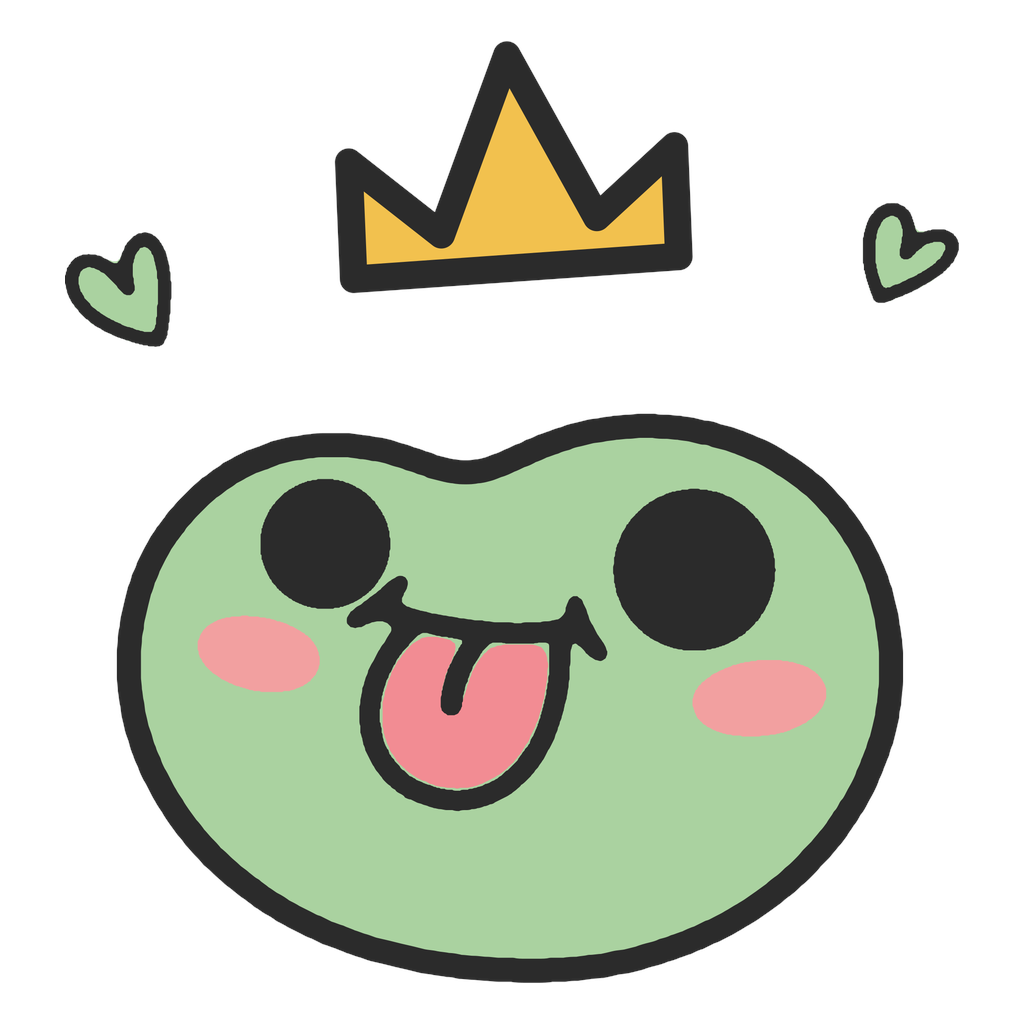
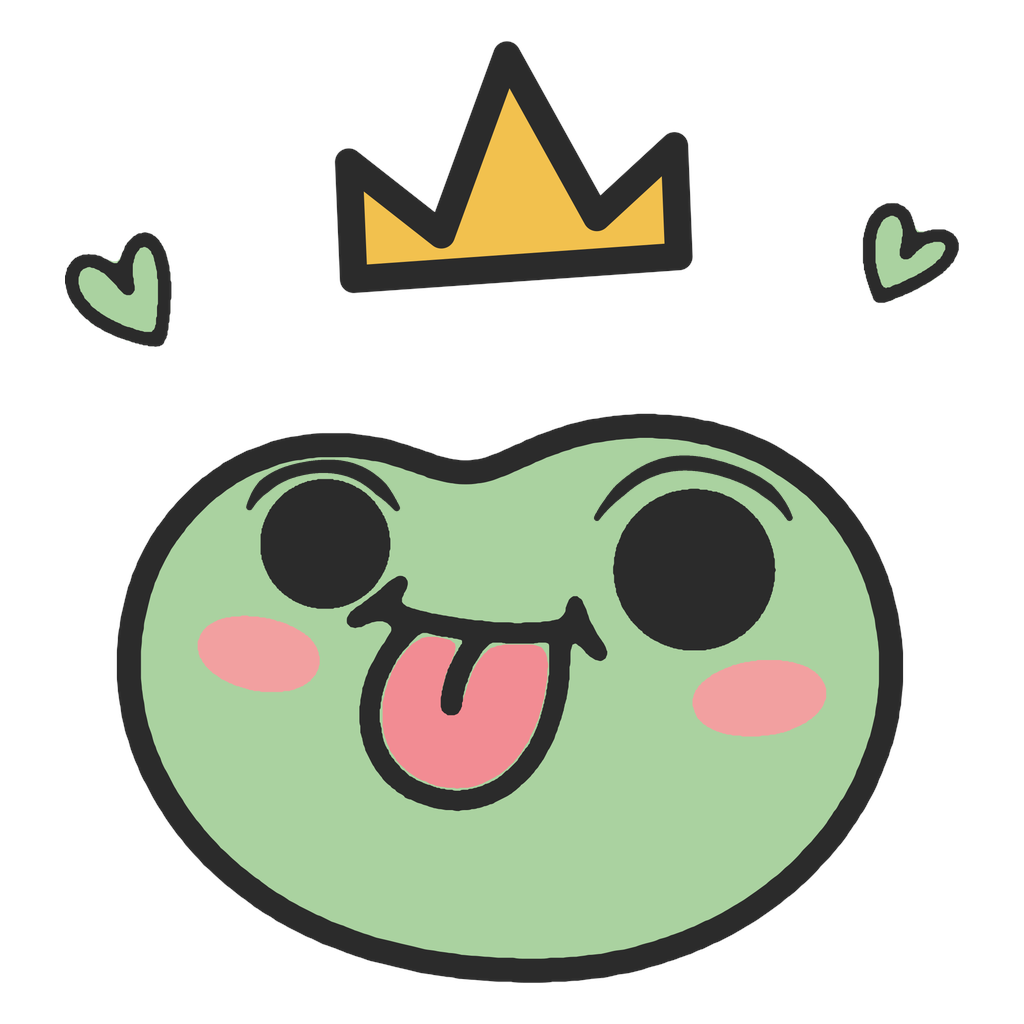
feat(brand): 비개구리 눈에 눈두덩이를 얹는다 — 눈 크기는 건드리지 않는다
눈 위를 지나는 얇은 아치 두 개를 더한다. 눈 반지름의 1.34배 위, 208~332도 구간,
굵기는 몸통 외곽선의 55%.

원본 펜 그림에는 없던 선이다. BigaeMark 의 "눈은 흰자 없는 정원" 주석대로 눈 자체는
꽉 찬 검정으로 두고 눈두덩이만 얹는다 — 스티커 10종의 반짝임·눈두덩이는 이미지 모델이
덧붙인 것이고, 아이콘 쪽이 손그림에 충실한 쪽이었다. 이 변경은 그 충실성을 조금 내주고
입체감을 얻는 거래다.

<b>눈을 깎는 방식은 버렸다.</b> 눈 위를 덮는 언덕(초록 반달 + 외곽선)도 만들어 봤는데
눈두덩이는 더 확실하지만 눈이 작아져 표정이 발랄함에서 졸림으로 바뀌었다. 아치는 눈
크기를 전혀 건드리지 않는다. 머리 윤곽을 눈 위로 솟게 하는 안(실제 개구리에 가장 가깝다)도
시도했지만 뿔처럼 보이고 기존 윤곽선이 비어져 나왔다 — 실루엣은 아이콘의 가장 강한 인식
단서라 덧대는 방식으론 안 된다.

적용 범위와 방법:
- bigae-mark.svg(마스터)·BigaeMark.tsx — 타원 아크 path 2개. 한쪽만 바꾸면 런처 아이콘과
  앱 안 마스코트가 어긋난다.
- icon.png · favicon.png · splash-icon.png · android-icon-foreground.png — SVG 렌더 도구가
  없는 환경이라 PNG 에 직접 그렸다. 파일마다 크기·여백이 달라 눈 좌표를 <b>머리 덩어리 bbox
  기준 비율</b>로 매핑했다(머리는 "가장 큰 초록 연결성분" — 하트도 초록이라 색 bbox 로는
  안 된다). 세 파일의 종횡비가 1.417/1.418/1.414 로 일치해 같은 그림임을 확인했다.
  새로 그리는 선만 4배 레이어에 올려 줄여 합성했다 — 원본 픽셀을 다시 표본화하지 않는다.
- android-icon-monochrome.png 은 <b>제외한다.</b> 머리가 검정이고 눈이 흰 구멍인 반전
  도안이라 아치도 흰 선이 되는데, 실루엣 윗변을 갉아먹어 흠집처럼 보였다. 테마 아이콘은
  단순 실루엣이 목적이라 그대로 둔다.

검증: 48/64/96px 렌더를 확대해 눈으로 확인했다 — 48px 에서도 아치가 살아남는다.
프론트 typecheck 통과, BigaeMark lint 에러 0건, SVG XML 파싱 OK.
⚠ SVG 자체의 렌더는 이 환경에 도구(rsvg·inkscape·cairosvg)가 없어 미검증이다 —
BigaeMark 는 앱 화면에서, 마스터 SVG 는 벡터 편집기에서 한 번 확인해야 한다.
아이콘 교체는 네이티브라 OTA 로 안 나가고 빌드가 필요하다.

Claude-Session: https://claude.ai/code/session_011JDdnZ7qDpT6qnsrqww4en

Changed region(s): [[0.5625, 0.4375, 0.7812, 0.5], [0.2188, 0.4375, 0.4062, 0.5]]

diff --git a/frontend/src/components/BigaeMark.tsx b/frontend/src/components/BigaeMark.tsx
@@ -13,6 +13,10 @@
  * 이미지 모델이 덧붙인 것이다. 다만 잉크 윤곽을 그대로 채우면 원본의 쉼표 모양이 남아
  * 노려보는 인상이 된다 — 모멘트로 정원을 뽑아 면적의 88% 로 그린다.
  *
+ * <p><b>눈두덩이는 원본에 없던 선이다</b>: 눈 위 아치 두 개를 얹어 입체감을 준다
+ * (2026-09-12, 아래 Path 주석). 눈 자체는 위 결정대로 꽉 찬 정원으로 둔다 — 눈을 깎는
+ * 방식은 눈이 작아져 표정이 바뀌었다. 같은 값이 아이콘 PNG 에도 들어가 있다.
+ *
  * <p><b>입만 구멍을 남긴다</b>(혀와 몸통 초록이 비쳐야 한다). 입의 판별은 위치가 아니라
  * "혀 중심을 품는 성분" 으로 한다. 혀 주름은 그 구멍 경계의 얇은 돌기라 180점으로 촘촘히
  * 떠야 살아남는다 — 48점으로 뜨면 주름이 사라져 그 자리에 몸통 초록이 비친다.
@@ -42,6 +46,21 @@ export function BigaeMark({ size = 96, style }: { size?: number; style?: ViewSty
     <Path fill={BLUSH} d="M21.8,61.0C21.9,61.0 22.0,61.0 22.1,61.0C22.2,60.9 22.3,60.9 22.4,60.9C22.5,60.9 22.6,60.9 22.7,60.9C22.8,60.9 22.9,60.9 23.0,61.0C23.1,61.0 23.2,61.0 23.3,61.0C23.4,61.0 23.5,61.0 23.6,61.0C23.7,61.0 23.8,61.0 23.9,61.0C24.0,61.0 24.1,61.1 24.2,61.1C24.3,61.1 24.4,61.1 24.5,61.1C24.6,61.1 24.7,61.1 24.8,61.2C24.9,61.2 25.0,61.2 25.1,61.2C25.2,61.2 25.3,61.3 25.4,61.3C25.5,61.3 25.6,61.3 25.7,61.4C25.8,61.4 25.8,61.4 25.9,61.5C26.0,61.5 26.1,61.5 26.2,61.5C26.3,61.6 26.4,61.6 26.5,61.6C26.6,61.7 26.7,61.7 26.8,61.7C26.9,61.8 27.0,61.8 27.0,61.8C27.1,61.9 27.2,61.9 27.3,62.0C27.4,62.0 27.5,62.0 27.6,62.1C27.7,62.1 27.7,62.2 27.8,62.2C27.9,62.3 28.0,62.3 28.1,62.4C28.2,62.4 28.3,62.5 28.3,62.5C28.4,62.6 28.5,62.6 28.6,62.7C28.7,62.7 28.8,62.8 28.8,62.9C28.9,62.9 29.0,63.0 29.1,63.0C29.1,63.1 29.2,63.2 29.3,63.2C29.4,63.3 29.4,63.4 29.5,63.5C29.5,63.5 29.6,63.6 29.7,63.7C29.7,63.8 29.8,63.9 29.8,63.9C29.9,64.0 29.9,64.1 30.0,64.2C30.0,64.3 30.1,64.4 30.1,64.5C30.1,64.6 30.2,64.7 30.2,64.7C30.2,64.8 30.2,64.9 30.2,65.0C30.3,65.1 30.3,65.2 30.3,65.3C30.3,65.4 30.3,65.5 30.3,65.6C30.3,65.7 30.3,65.8 30.3,65.9C30.3,66.0 30.2,66.1 30.2,66.2C30.2,66.3 30.2,66.4 30.1,66.5C30.1,66.6 30.1,66.6 30.0,66.7C30.0,66.8 29.9,66.9 29.9,67.0C29.8,67.1 29.8,67.1 29.7,67.2C29.6,67.3 29.6,67.4 29.5,67.4C29.4,67.5 29.4,67.6 29.3,67.7C29.2,67.7 29.1,67.8 29.1,67.8C29.0,67.9 28.9,68.0 28.8,68.0C28.7,68.1 28.6,68.1 28.6,68.2C28.5,68.2 28.4,68.2 28.3,68.3C28.2,68.3 28.1,68.4 28.0,68.4C27.9,68.4 27.8,68.5 27.8,68.5C27.7,68.5 27.6,68.6 27.5,68.6C27.4,68.6 27.3,68.6 27.2,68.7C27.1,68.7 27.0,68.7 26.9,68.7C26.8,68.7 26.7,68.7 26.6,68.7C26.5,68.8 26.4,68.8 26.3,68.8C26.2,68.8 26.1,68.8 26.0,68.8C25.9,68.8 25.8,68.8 25.7,68.8C25.6,68.8 25.5,68.8 25.3,68.8C25.2,68.8 25.1,68.8 25.0,68.8C24.9,68.8 24.8,68.8 24.7,68.8C24.6,68.8 24.5,68.8 24.4,68.8C24.3,68.8 24.2,68.8 24.1,68.7C24.0,68.7 23.9,68.7 23.8,68.7C23.7,68.7 23.6,68.7 23.5,68.7C23.4,68.6 23.3,68.6 23.2,68.6C23.1,68.6 23.0,68.6 22.9,68.5C22.8,68.5 22.7,68.5 22.6,68.4C22.6,68.4 22.5,68.4 22.4,68.4C22.3,68.3 22.2,68.3 22.1,68.3C22.0,68.2 21.9,68.2 21.8,68.2C21.7,68.2 21.6,68.1 21.5,68.1C21.4,68.1 21.4,68.0 21.3,68.0C21.2,67.9 21.1,67.9 21.0,67.9C20.9,67.8 20.8,67.8 20.7,67.7C20.6,67.7 20.6,67.7 20.5,67.6C20.4,67.6 20.3,67.5 20.2,67.5C20.1,67.4 20.0,67.4 20.0,67.3C19.9,67.3 19.8,67.2 19.7,67.1C19.6,67.1 19.6,67.0 19.5,67.0C19.4,66.9 19.3,66.9 19.2,66.8C19.2,66.7 19.1,66.7 19.0,66.6C18.9,66.5 18.9,66.5 18.8,66.4C18.7,66.3 18.6,66.2 18.6,66.2C18.5,66.1 18.4,66.0 18.4,65.9C18.3,65.8 18.3,65.8 18.2,65.7C18.2,65.6 18.1,65.5 18.1,65.4C18.0,65.3 18.0,65.3 17.9,65.2C17.9,65.1 17.9,65.0 17.8,64.9C17.8,64.8 17.8,64.7 17.8,64.6C17.7,64.5 17.7,64.4 17.7,64.3C17.7,64.2 17.7,64.1 17.7,64.0C17.7,63.9 17.7,63.8 17.7,63.7C17.7,63.6 17.7,63.5 17.8,63.4C17.8,63.4 17.8,63.3 17.9,63.2C17.9,63.1 17.9,63.0 18.0,62.9C18.0,62.8 18.1,62.7 18.1,62.7C18.2,62.6 18.2,62.5 18.3,62.4C18.4,62.3 18.4,62.3 18.5,62.2C18.6,62.1 18.6,62.1 18.7,62.0C18.8,61.9 18.9,61.9 19.0,61.8C19.0,61.8 19.1,61.7 19.2,61.7C19.3,61.6 19.4,61.6 19.5,61.5C19.6,61.5 19.6,61.5 19.7,61.4C19.8,61.4 19.9,61.3 20.0,61.3C20.1,61.3 20.2,61.2 20.3,61.2C20.4,61.2 20.5,61.2 20.6,61.1C20.7,61.1 20.8,61.1 20.9,61.1C21.0,61.1 21.1,61.1 21.2,61.0C21.3,61.0 21.4,61.0 21.5,61.0C21.6,61.0 21.7,61.0 21.8,61.0Z" />
     <Path fill={INK} fillRule="evenodd" d="M37.6,53.5C37.6,53.6 37.6,53.7 37.6,53.8C37.6,53.9 37.6,53.9 37.6,54.0C37.6,54.1 37.5,54.2 37.5,54.3C37.5,54.4 37.5,54.5 37.5,54.6C37.5,54.6 37.5,54.7 37.5,54.8C37.4,54.9 37.4,55.0 37.4,55.1C37.4,55.2 37.4,55.2 37.3,55.3C37.3,55.4 37.3,55.5 37.3,55.6C37.2,55.7 37.2,55.7 37.2,55.8C37.1,55.9 37.1,56.0 37.1,56.1C37.0,56.2 37.0,56.2 37.0,56.3C36.9,56.4 36.9,56.5 36.8,56.6C36.8,56.6 36.8,56.7 36.7,56.8C36.7,56.9 36.6,56.9 36.6,57.0C36.5,57.1 36.5,57.2 36.4,57.2C36.4,57.3 36.3,57.4 36.3,57.5C36.2,57.5 36.2,57.6 36.1,57.7C36.1,57.7 36.0,57.8 36.0,57.9C35.9,57.9 35.9,58.0 35.8,58.1C35.7,58.1 35.7,58.2 35.6,58.3C35.6,58.3 35.5,58.4 35.4,58.4C35.4,58.5 35.3,58.6 35.2,58.6C35.2,58.7 35.1,58.7 35.0,58.8C35.0,58.8 34.9,58.9 34.8,58.9C34.7,59.0 34.7,59.0 34.6,59.1C34.5,59.1 34.5,59.2 34.4,59.2C34.3,59.3 34.2,59.3 34.1,59.4C34.1,59.4 34.0,59.4 33.9,59.5C33.8,59.5 33.8,59.6 33.7,59.6C33.6,59.6 33.5,59.7 33.4,59.7C33.4,59.7 33.3,59.8 33.2,59.8C33.1,59.8 33.0,59.9 32.9,59.9C32.9,59.9 32.8,59.9 32.7,60.0C32.6,60.0 32.5,60.0 32.4,60.0C32.4,60.1 32.3,60.1 32.2,60.1C32.1,60.1 32.0,60.1 31.9,60.1C31.8,60.1 31.7,60.2 31.7,60.2C31.6,60.2 31.5,60.2 31.4,60.2C31.3,60.2 31.2,60.2 31.1,60.2C31.0,60.2 31.0,60.2 30.9,60.2C30.8,60.2 30.7,60.2 30.6,60.2C30.5,60.2 30.4,60.2 30.3,60.2C30.3,60.2 30.2,60.2 30.1,60.2C30.0,60.2 29.9,60.1 29.8,60.1C29.7,60.1 29.6,60.1 29.6,60.1C29.5,60.1 29.4,60.1 29.3,60.0C29.2,60.0 29.1,60.0 29.0,60.0C29.0,59.9 28.9,59.9 28.8,59.9C28.7,59.9 28.6,59.8 28.5,59.8C28.5,59.8 28.4,59.7 28.3,59.7C28.2,59.7 28.1,59.6 28.1,59.6C28.0,59.6 27.9,59.5 27.8,59.5C27.7,59.4 27.7,59.4 27.6,59.4C27.5,59.3 27.4,59.3 27.4,59.2C27.3,59.2 27.2,59.1 27.1,59.1C27.1,59.0 27.0,59.0 26.9,58.9C26.9,58.9 26.8,58.8 26.7,58.8C26.6,58.7 26.6,58.7 26.5,58.6C26.4,58.6 26.4,58.5 26.3,58.4C26.3,58.4 26.2,58.3 26.1,58.3C26.1,58.2 26.0,58.1 25.9,58.1C25.9,58.0 25.8,57.9 25.8,57.9C25.7,57.8 25.7,57.7 25.6,57.7C25.5,57.6 25.5,57.5 25.4,57.5C25.4,57.4 25.3,57.3 25.3,57.2C25.2,57.2 25.2,57.1 25.1,57.0C25.1,56.9 25.1,56.9 25.0,56.8C25.0,56.7 24.9,56.6 24.9,56.6C24.9,56.5 24.8,56.4 24.8,56.3C24.7,56.2 24.7,56.2 24.7,56.1C24.6,56.0 24.6,55.9 24.6,55.8C24.5,55.7 24.5,55.7 24.5,55.6C24.5,55.5 24.4,55.4 24.4,55.3C24.4,55.2 24.4,55.2 24.3,55.1C24.3,55.0 24.3,54.9 24.3,54.8C24.3,54.7 24.3,54.6 24.2,54.6C24.2,54.5 24.2,54.4 24.2,54.3C24.2,54.2 24.2,54.1 24.2,54.0C24.2,53.9 24.2,53.9 24.2,53.8C24.2,53.7 24.2,53.6 24.2,53.5C24.2,53.4 24.2,53.3 24.2,53.2C24.2,53.2 24.2,53.1 24.2,53.0C24.2,52.9 24.2,52.8 24.2,52.7C24.2,52.6 24.2,52.5 24.2,52.5C24.3,52.4 24.3,52.3 24.3,52.2C24.3,52.1 24.3,52.0 24.3,51.9C24.4,51.9 24.4,51.8 24.4,51.7C24.4,51.6 24.5,51.5 24.5,51.4C24.5,51.3 24.5,51.3 24.6,51.2C24.6,51.1 24.6,51.0 24.7,50.9C24.7,50.9 24.7,50.8 24.8,50.7C24.8,50.6 24.9,50.5 24.9,50.5C24.9,50.4 25.0,50.3 25.0,50.2C25.1,50.2 25.1,50.1 25.1,50.0C25.2,49.9 25.2,49.9 25.3,49.8C25.3,49.7 25.4,49.6 25.4,49.6C25.5,49.5 25.5,49.4 25.6,49.4C25.7,49.3 25.7,49.2 25.8,49.1C25.8,49.1 25.9,49.0 25.9,49.0C26.0,48.9 26.1,48.8 26.1,48.8C26.2,48.7 26.3,48.6 26.3,48.6C26.4,48.5 26.4,48.5 26.5,48.4C26.6,48.3 26.6,48.3 26.7,48.2C26.8,48.2 26.9,48.1 26.9,48.1C27.0,48.0 27.1,48.0 27.1,47.9C27.2,47.9 27.3,47.8 27.4,47.8C27.4,47.7 27.5,47.7 27.6,47.7C27.7,47.6 27.7,47.6 27.8,47.5C27.9,47.5 28.0,47.5 28.1,47.4C28.1,47.4 28.2,47.3 28.3,47.3C28.4,47.3 28.5,47.2 28.5,47.2C28.6,47.2 28.7,47.2 28.8,47.1C28.9,47.1 29.0,47.1 29.0,47.0C29.1,47.0 29.2,47.0 29.3,47.0C29.4,47.0 29.5,46.9 29.6,46.9C29.6,46.9 29.7,46.9 29.8,46.9C29.9,46.9 30.0,46.9 30.1,46.8C30.2,46.8 30.3,46.8 30.3,46.8C30.4,46.8 30.5,46.8 30.6,46.8C30.7,46.8 30.8,46.8 30.9,46.8C31.0,46.8 31.0,46.8 31.1,46.8C31.2,46.8 31.3,46.8 31.4,46.8C31.5,46.8 31.6,46.8 31.7,46.8C31.7,46.9 31.8,46.9 31.9,46.9C32.0,46.9 32.1,46.9 32.2,46.9C32.3,46.9 32.4,47.0 32.4,47.0C32.5,47.0 32.6,47.0 32.7,47.0C32.8,47.1 32.9,47.1 32.9,47.1C33.0,47.2 33.1,47.2 33.2,47.2C33.3,47.2 33.4,47.3 33.4,47.3C33.5,47.3 33.6,47.4 33.7,47.4C33.8,47.5 33.8,47.5 33.9,47.5C34.0,47.6 34.1,47.6 34.1,47.7C34.2,47.7 34.3,47.7 34.4,47.8C34.5,47.8 34.5,47.9 34.6,47.9C34.7,48.0 34.7,48.0 34.8,48.1C34.9,48.1 35.0,48.2 35.0,48.2C35.1,48.3 35.2,48.3 35.2,48.4C35.3,48.5 35.4,48.5 35.4,48.6C35.5,48.6 35.6,48.7 35.6,48.8C35.7,48.8 35.7,48.9 35.8,49.0C35.9,49.0 35.9,49.1 36.0,49.1C36.0,49.2 36.1,49.3 36.1,49.4C36.2,49.4 36.2,49.5 36.3,49.6C36.3,49.6 36.4,49.7 36.4,49.8C36.5,49.9 36.5,49.9 36.6,50.0C36.6,50.1 36.7,50.2 36.7,50.2C36.8,50.3 36.8,50.4 36.8,50.5C36.9,50.5 36.9,50.6 37.0,50.7C37.0,50.8 37.0,50.9 37.1,50.9C37.1,51.0 37.1,51.1 37.2,51.2C37.2,51.3 37.2,51.3 37.3,51.4C37.3,51.5 37.3,51.6 37.3,51.7C37.4,51.8 37.4,51.9 37.4,51.9C37.4,52.0 37.4,52.1 37.5,52.2C37.5,52.3 37.5,52.4 37.5,52.5C37.5,52.5 37.5,52.6 37.5,52.7C37.5,52.8 37.6,52.9 37.6,53.0C37.6,53.1 37.6,53.2 37.6,53.2C37.6,53.3 37.6,53.4 37.6,53.5Z" />
     <Path fill={INK} fillRule="evenodd" d="M77.4,56.2C77.4,56.3 77.3,56.4 77.3,56.5C77.3,56.6 77.3,56.7 77.3,56.8C77.3,57.0 77.3,57.1 77.3,57.2C77.3,57.3 77.3,57.4 77.2,57.5C77.2,57.6 77.2,57.7 77.2,57.8C77.2,57.9 77.1,58.0 77.1,58.1C77.1,58.2 77.1,58.4 77.0,58.5C77.0,58.6 77.0,58.7 76.9,58.8C76.9,58.9 76.9,59.0 76.8,59.1C76.8,59.2 76.8,59.3 76.7,59.4C76.7,59.5 76.6,59.6 76.6,59.7C76.5,59.8 76.5,59.9 76.4,60.0C76.4,60.1 76.3,60.2 76.3,60.3C76.2,60.4 76.2,60.5 76.1,60.6C76.1,60.7 76.0,60.7 75.9,60.8C75.9,60.9 75.8,61.0 75.8,61.1C75.7,61.2 75.6,61.3 75.6,61.4C75.5,61.5 75.4,61.5 75.3,61.6C75.3,61.7 75.2,61.8 75.1,61.9C75.1,61.9 75.0,62.0 74.9,62.1C74.8,62.2 74.7,62.3 74.7,62.3C74.6,62.4 74.5,62.5 74.4,62.5C74.3,62.6 74.3,62.7 74.2,62.8C74.1,62.8 74.0,62.9 73.9,63.0C73.8,63.0 73.7,63.1 73.6,63.1C73.5,63.2 73.5,63.3 73.4,63.3C73.3,63.4 73.2,63.4 73.1,63.5C73.0,63.5 72.9,63.6 72.8,63.6C72.7,63.7 72.6,63.7 72.5,63.8C72.4,63.8 72.3,63.9 72.2,63.9C72.1,64.0 72.0,64.0 71.9,64.0C71.8,64.1 71.7,64.1 71.6,64.1C71.5,64.2 71.4,64.2 71.3,64.2C71.2,64.3 71.0,64.3 70.9,64.3C70.8,64.3 70.7,64.4 70.6,64.4C70.5,64.4 70.4,64.4 70.3,64.4C70.2,64.5 70.1,64.5 70.0,64.5C69.9,64.5 69.8,64.5 69.6,64.5C69.5,64.5 69.4,64.5 69.3,64.5C69.2,64.5 69.1,64.5 69.0,64.5C68.9,64.5 68.8,64.5 68.7,64.5C68.6,64.5 68.4,64.5 68.3,64.5C68.2,64.5 68.1,64.5 68.0,64.5C67.9,64.5 67.8,64.5 67.7,64.4C67.6,64.4 67.5,64.4 67.4,64.4C67.3,64.4 67.1,64.3 67.0,64.3C66.9,64.3 66.8,64.3 66.7,64.2C66.6,64.2 66.5,64.2 66.4,64.1C66.3,64.1 66.2,64.1 66.1,64.0C66.0,64.0 65.9,64.0 65.8,63.9C65.7,63.9 65.6,63.8 65.5,63.8C65.4,63.7 65.3,63.7 65.2,63.6C65.1,63.6 65.0,63.5 64.9,63.5C64.8,63.4 64.7,63.4 64.6,63.3C64.5,63.3 64.4,63.2 64.3,63.1C64.3,63.1 64.2,63.0 64.1,63.0C64.0,62.9 63.9,62.8 63.8,62.8C63.7,62.7 63.6,62.6 63.6,62.5C63.5,62.5 63.4,62.4 63.3,62.3C63.2,62.3 63.2,62.2 63.1,62.1C63.0,62.0 62.9,61.9 62.9,61.9C62.8,61.8 62.7,61.7 62.6,61.6C62.6,61.5 62.5,61.5 62.4,61.4C62.4,61.3 62.3,61.2 62.2,61.1C62.2,61.0 62.1,60.9 62.0,60.8C62.0,60.7 61.9,60.7 61.9,60.6C61.8,60.5 61.8,60.4 61.7,60.3C61.6,60.2 61.6,60.1 61.5,60.0C61.5,59.9 61.4,59.8 61.4,59.7C61.4,59.6 61.3,59.5 61.3,59.4C61.2,59.3 61.2,59.2 61.2,59.1C61.1,59.0 61.1,58.9 61.0,58.8C61.0,58.7 61.0,58.6 60.9,58.5C60.9,58.4 60.9,58.2 60.9,58.1C60.8,58.0 60.8,57.9 60.8,57.8C60.8,57.7 60.8,57.6 60.7,57.5C60.7,57.4 60.7,57.3 60.7,57.2C60.7,57.1 60.7,57.0 60.7,56.8C60.7,56.7 60.6,56.6 60.6,56.5C60.6,56.4 60.6,56.3 60.6,56.2C60.6,56.1 60.6,56.0 60.6,55.9C60.6,55.8 60.7,55.6 60.7,55.5C60.7,55.4 60.7,55.3 60.7,55.2C60.7,55.1 60.7,55.0 60.7,54.9C60.8,54.8 60.8,54.7 60.8,54.6C60.8,54.5 60.8,54.3 60.9,54.2C60.9,54.1 60.9,54.0 60.9,53.9C61.0,53.8 61.0,53.7 61.0,53.6C61.1,53.5 61.1,53.4 61.2,53.3C61.2,53.2 61.2,53.1 61.3,53.0C61.3,52.9 61.4,52.8 61.4,52.7C61.4,52.6 61.5,52.5 61.5,52.4C61.6,52.3 61.6,52.2 61.7,52.1C61.8,52.0 61.8,51.9 61.9,51.8C61.9,51.7 62.0,51.6 62.0,51.5C62.1,51.5 62.2,51.4 62.2,51.3C62.3,51.2 62.4,51.1 62.4,51.0C62.5,50.9 62.6,50.8 62.6,50.8C62.7,50.7 62.8,50.6 62.9,50.5C62.9,50.4 63.0,50.4 63.1,50.3C63.2,50.2 63.2,50.1 63.3,50.1C63.4,50.0 63.5,49.9 63.6,49.8C63.6,49.8 63.7,49.7 63.8,49.6C63.9,49.6 64.0,49.5 64.1,49.4C64.2,49.4 64.3,49.3 64.3,49.2C64.4,49.2 64.5,49.1 64.6,49.1C64.7,49.0 64.8,49.0 64.9,48.9C65.0,48.8 65.1,48.8 65.2,48.7C65.3,48.7 65.4,48.6 65.5,48.6C65.6,48.6 65.7,48.5 65.8,48.5C65.9,48.4 66.0,48.4 66.1,48.3C66.2,48.3 66.3,48.3 66.4,48.2C66.5,48.2 66.6,48.2 66.7,48.1C66.8,48.1 66.9,48.1 67.0,48.1C67.1,48.0 67.3,48.0 67.4,48.0C67.5,48.0 67.6,48.0 67.7,47.9C67.8,47.9 67.9,47.9 68.0,47.9C68.1,47.9 68.2,47.9 68.3,47.9C68.4,47.8 68.6,47.8 68.7,47.8C68.8,47.8 68.9,47.8 69.0,47.8C69.1,47.8 69.2,47.8 69.3,47.8C69.4,47.8 69.5,47.8 69.6,47.9C69.8,47.9 69.9,47.9 70.0,47.9C70.1,47.9 70.2,47.9 70.3,47.9C70.4,48.0 70.5,48.0 70.6,48.0C70.7,48.0 70.8,48.0 70.9,48.1C71.0,48.1 71.2,48.1 71.3,48.1C71.4,48.2 71.5,48.2 71.6,48.2C71.7,48.3 71.8,48.3 71.9,48.3C72.0,48.4 72.1,48.4 72.2,48.5C72.3,48.5 72.4,48.6 72.5,48.6C72.6,48.6 72.7,48.7 72.8,48.7C72.9,48.8 73.0,48.8 73.1,48.9C73.2,49.0 73.3,49.0 73.4,49.1C73.5,49.1 73.5,49.2 73.6,49.2C73.7,49.3 73.8,49.4 73.9,49.4C74.0,49.5 74.1,49.6 74.2,49.6C74.3,49.7 74.3,49.8 74.4,49.8C74.5,49.9 74.6,50.0 74.7,50.1C74.7,50.1 74.8,50.2 74.9,50.3C75.0,50.4 75.1,50.4 75.1,50.5C75.2,50.6 75.3,50.7 75.3,50.8C75.4,50.8 75.5,50.9 75.6,51.0C75.6,51.1 75.7,51.2 75.8,51.3C75.8,51.4 75.9,51.5 75.9,51.5C76.0,51.6 76.1,51.7 76.1,51.8C76.2,51.9 76.2,52.0 76.3,52.1C76.3,52.2 76.4,52.3 76.4,52.4C76.5,52.5 76.5,52.6 76.6,52.7C76.6,52.8 76.7,52.9 76.7,53.0C76.8,53.1 76.8,53.2 76.8,53.3C76.9,53.4 76.9,53.5 76.9,53.6C77.0,53.7 77.0,53.8 77.0,53.9C77.1,54.0 77.1,54.1 77.1,54.2C77.1,54.3 77.2,54.5 77.2,54.6C77.2,54.7 77.2,54.8 77.2,54.9C77.3,55.0 77.3,55.1 77.3,55.2C77.3,55.3 77.3,55.4 77.3,55.5C77.3,55.6 77.3,55.8 77.3,55.9C77.3,56.0 77.4,56.1 77.4,56.2Z" />
+      {/*
+        눈두덩이 — 눈 위를 지나는 얇은 아치 두 개(2026-09-12).
+
+        <p>원본 펜 그림에는 없던 선이다. 위 "눈은 흰자 없는 정원" 주석대로 눈 자체는 꽉 찬
+        검정으로 두고, 눈두덩이만 얹어 입체감을 준다. 눈을 깎는 방식(눈 위를 덮는 언덕)도
+        시도했지만 눈이 작아져 표정이 바뀌었다 — 이 아치는 눈 크기를 건드리지 않는다.
+
+        <p>기하: 눈 반지름의 1.34배 위, 208°~332° 구간. 굵기는 몸통 외곽선(2.49)의 55%.
+        아이콘 PNG(assets/icon.png 등)도 같은 값으로 그렸다 — 한쪽만 바꾸면 런처 아이콘과
+        앱 안 마스코트가 어긋난다.
+      */}
+      <Path fill="none" stroke={INK} strokeWidth={1.37} strokeLinecap="round"
+        d="M22.97,49.29 A8.98,8.98 0 0 1 38.83,49.29" />
+      <Path fill="none" stroke={INK} strokeWidth={1.37} strokeLinecap="round"
+        d="M59.09,50.88 A11.22,11.22 0 0 1 78.91,50.88" />
     <Path fill={INK} fillRule="evenodd" d="M38.6,56.8C38.7,56.8 38.9,56.8 39.0,56.9C39.1,56.9 39.2,57.0 39.3,57.2C39.4,57.3 39.4,57.5 39.4,57.6C39.4,57.8 39.3,58.0 39.3,58.1C39.2,58.3 39.1,58.5 39.0,58.6C39.0,58.8 38.9,58.9 38.8,59.1C38.8,59.2 38.8,59.4 38.8,59.5C38.9,59.6 38.9,59.7 39.1,59.8C39.2,59.9 39.3,60.0 39.5,60.0C39.7,60.1 39.9,60.2 40.1,60.2C40.3,60.3 40.5,60.3 40.7,60.4C40.9,60.4 41.1,60.5 41.3,60.5C41.5,60.6 41.7,60.6 41.9,60.7C42.1,60.7 42.3,60.7 42.6,60.8C42.8,60.8 43.0,60.9 43.2,60.9C43.4,60.9 43.6,61.0 43.8,61.0C44.0,61.0 44.3,61.1 44.5,61.1C44.7,61.2 44.9,61.2 45.1,61.2C45.3,61.2 45.5,61.3 45.8,61.3C46.0,61.3 46.2,61.4 46.4,61.4C46.6,61.4 46.9,61.4 47.1,61.4C47.3,61.5 47.5,61.5 47.7,61.5C47.9,61.5 48.2,61.6 48.4,61.6C48.6,61.6 48.8,61.6 49.1,61.6C49.3,61.6 49.5,61.6 49.7,61.6C49.9,61.6 50.2,61.6 50.4,61.7C50.6,61.7 50.8,61.7 51.1,61.7C51.3,61.6 51.5,61.6 51.7,61.6C52.0,61.6 52.2,61.6 52.4,61.6C52.6,61.6 52.8,61.6 53.1,61.6C53.3,61.5 53.5,61.5 53.7,61.5C53.9,61.5 54.1,61.5 54.3,61.4C54.5,61.4 54.7,61.3 54.9,61.3C55.1,61.2 55.2,61.1 55.3,61.0C55.4,60.9 55.5,60.8 55.6,60.6C55.7,60.5 55.7,60.3 55.7,60.1C55.8,59.9 55.8,59.8 55.9,59.6C56.0,59.4 56.0,59.3 56.1,59.2C56.2,59.1 56.3,59.0 56.5,58.9C56.6,58.9 56.7,58.9 56.9,58.9C57.0,59.0 57.1,59.1 57.3,59.2C57.4,59.3 57.5,59.5 57.5,59.6C57.6,59.8 57.7,60.0 57.8,60.2C57.9,60.4 57.9,60.6 58.0,60.8C58.1,61.0 58.1,61.2 58.2,61.4C58.3,61.6 58.4,61.8 58.5,61.9C58.6,62.1 58.7,62.3 58.8,62.5C58.9,62.7 59.0,62.9 59.1,63.0C59.2,63.2 59.4,63.4 59.5,63.6C59.6,63.7 59.7,63.9 59.8,64.1C59.9,64.3 59.9,64.5 60.0,64.6C60.0,64.8 60.0,65.0 59.9,65.1C59.9,65.2 59.8,65.4 59.7,65.4C59.6,65.5 59.4,65.6 59.3,65.6C59.1,65.6 59.0,65.5 58.8,65.5C58.6,65.4 58.5,65.3 58.3,65.2C58.1,65.1 58.0,64.9 57.8,64.8C57.7,64.6 57.6,64.5 57.4,64.3C57.3,64.2 57.2,64.1 57.0,64.0C56.9,63.9 56.8,63.8 56.7,63.8C56.6,63.8 56.5,63.9 56.4,63.9C56.4,64.0 56.3,64.2 56.3,64.3C56.2,64.5 56.2,64.7 56.2,64.9C56.2,65.1 56.2,65.3 56.2,65.5C56.2,65.7 56.2,66.0 56.1,66.2C56.1,66.4 56.1,66.6 56.1,66.9C56.1,67.1 56.1,67.3 56.1,67.5C56.0,67.7 56.0,68.0 56.0,68.2C56.0,68.4 55.9,68.6 55.9,68.8C55.9,69.0 55.8,69.2 55.8,69.5C55.7,69.7 55.7,69.9 55.6,70.1C55.6,70.3 55.5,70.5 55.5,70.7C55.4,70.9 55.4,71.1 55.3,71.3C55.3,71.5 55.2,71.7 55.1,71.9C55.1,72.1 55.0,72.3 54.9,72.5C54.9,72.7 54.8,72.9 54.7,73.1C54.6,73.3 54.6,73.5 54.5,73.7C54.4,73.9 54.3,74.1 54.2,74.3C54.1,74.5 54.0,74.7 53.9,74.8C53.8,75.0 53.7,75.2 53.6,75.4C53.5,75.6 53.4,75.8 53.3,75.9C53.2,76.1 53.0,76.3 52.9,76.5C52.8,76.7 52.6,76.8 52.5,77.0C52.4,77.2 52.2,77.3 52.1,77.5C51.9,77.7 51.8,77.8 51.6,78.0C51.5,78.1 51.3,78.3 51.1,78.4C51.0,78.6 50.8,78.7 50.6,78.9C50.5,79.0 50.3,79.1 50.1,79.3C49.9,79.4 49.8,79.5 49.6,79.6C49.4,79.7 49.2,79.8 49.0,79.9C48.8,80.0 48.6,80.1 48.4,80.2C48.3,80.3 48.1,80.4 47.9,80.4C47.7,80.5 47.5,80.6 47.3,80.6C47.1,80.7 46.8,80.8 46.6,80.8C46.4,80.9 46.2,80.9 46.0,80.9C45.8,81.0 45.6,81.0 45.4,81.0C45.1,81.0 44.9,81.0 44.7,81.1C44.5,81.1 44.3,81.1 44.0,81.0C43.8,81.0 43.6,81.0 43.4,81.0C43.2,81.0 42.9,80.9 42.7,80.9C42.5,80.9 42.3,80.8 42.1,80.8C41.9,80.7 41.7,80.7 41.5,80.6C41.3,80.5 41.1,80.5 40.9,80.4C40.7,80.3 40.5,80.3 40.3,80.2C40.1,80.1 39.9,80.0 39.7,79.9C39.5,79.9 39.3,79.8 39.1,79.7C39.0,79.5 38.8,79.4 38.6,79.3C38.4,79.2 38.2,79.1 38.1,78.9C37.9,78.8 37.7,78.7 37.6,78.5C37.4,78.4 37.2,78.2 37.1,78.1C36.9,77.9 36.8,77.8 36.7,77.6C36.5,77.4 36.4,77.2 36.3,77.1C36.1,76.9 36.0,76.7 35.9,76.5C35.8,76.4 35.7,76.2 35.6,76.0C35.5,75.8 35.4,75.6 35.3,75.4C35.2,75.2 35.1,75.0 35.0,74.8C35.0,74.6 34.9,74.4 34.8,74.2C34.8,74.0 34.7,73.8 34.7,73.6C34.6,73.4 34.6,73.2 34.5,73.0C34.5,72.8 34.5,72.6 34.5,72.3C34.4,72.1 34.4,71.9 34.4,71.7C34.4,71.5 34.4,71.2 34.4,71.0C34.4,70.8 34.4,70.6 34.4,70.3C34.5,70.1 34.5,69.9 34.5,69.7C34.5,69.5 34.6,69.3 34.6,69.1C34.7,68.8 34.7,68.6 34.7,68.4C34.8,68.2 34.9,68.0 34.9,67.8C35.0,67.6 35.0,67.4 35.1,67.2C35.2,67.0 35.3,66.8 35.3,66.6C35.4,66.4 35.5,66.2 35.6,66.0C35.7,65.8 35.8,65.7 35.9,65.5C36.0,65.3 36.1,65.1 36.2,64.9C36.3,64.7 36.4,64.5 36.5,64.4C36.6,64.2 36.7,64.0 36.9,63.8C37.0,63.7 37.1,63.5 37.2,63.3C37.3,63.1 37.4,63.0 37.5,62.8C37.6,62.7 37.7,62.5 37.7,62.4C37.7,62.2 37.7,62.1 37.6,62.0C37.5,61.9 37.4,61.8 37.3,61.7C37.1,61.6 37.0,61.6 36.8,61.5C36.6,61.5 36.4,61.5 36.3,61.5C36.1,61.5 35.9,61.6 35.7,61.6C35.5,61.7 35.3,61.8 35.1,61.8C35.0,61.9 34.8,62.0 34.6,62.1C34.4,62.1 34.2,62.1 34.0,62.2C33.9,62.2 33.7,62.1 33.5,62.1C33.4,62.0 33.3,61.9 33.2,61.8C33.1,61.7 33.1,61.6 33.1,61.4C33.1,61.3 33.1,61.1 33.2,61.0C33.3,60.8 33.4,60.7 33.5,60.5C33.7,60.4 33.8,60.3 34.0,60.1C34.1,60.0 34.3,59.9 34.5,59.8C34.7,59.7 34.8,59.5 35.0,59.4C35.2,59.3 35.4,59.1 35.5,59.0C35.7,58.9 35.9,58.7 36.1,58.6C36.2,58.5 36.4,58.3 36.6,58.2C36.7,58.0 36.9,57.9 37.1,57.7C37.2,57.6 37.4,57.4 37.6,57.3C37.7,57.2 37.9,57.1 38.1,57.0C38.2,56.9 38.4,56.8 38.6,56.8ZM41.0,62.7C41.1,62.7 41.2,62.7 41.3,62.7C41.5,62.7 41.6,62.8 41.7,62.8C41.8,62.8 42.0,62.9 42.1,62.9C42.2,62.9 42.3,63.0 42.5,63.0C42.6,63.0 42.7,63.0 42.9,63.1C43.0,63.1 43.1,63.1 43.2,63.1C43.4,63.1 43.5,63.1 43.6,63.2C43.8,63.2 43.9,63.2 44.0,63.2C44.1,63.3 44.3,63.3 44.4,63.3C44.5,63.3 44.7,63.4 44.8,63.4C44.9,63.4 45.0,63.5 45.0,63.5C45.0,63.6 45.0,63.7 45.0,63.8C44.9,63.9 44.8,64.0 44.8,64.1C44.7,64.2 44.6,64.3 44.6,64.5C44.5,64.6 44.4,64.7 44.4,64.8C44.3,64.9 44.3,65.0 44.2,65.1C44.1,65.2 44.1,65.4 44.0,65.5C44.0,65.6 43.9,65.7 43.9,65.8C43.8,65.9 43.7,66.0 43.7,66.2C43.6,66.3 43.6,66.4 43.5,66.5C43.5,66.6 43.5,66.8 43.4,66.9C43.4,67.0 43.3,67.1 43.3,67.2C43.3,67.4 43.2,67.5 43.2,67.6C43.2,67.7 43.1,67.9 43.1,68.0C43.1,68.1 43.0,68.2 43.0,68.4C43.0,68.5 43.0,68.6 42.9,68.7C42.9,68.9 42.9,69.0 42.9,69.1C42.8,69.3 42.8,69.4 42.8,69.5C42.8,69.7 42.8,69.8 42.8,69.9C42.8,70.0 42.8,70.2 42.8,70.3C42.8,70.4 42.9,70.5 42.9,70.7C43.0,70.8 43.1,70.9 43.2,71.0C43.3,71.0 43.4,71.1 43.5,71.2C43.6,71.2 43.7,71.2 43.9,71.2C44.0,71.2 44.1,71.2 44.2,71.2C44.4,71.1 44.5,71.1 44.6,71.0C44.7,70.9 44.7,70.8 44.8,70.7C44.9,70.6 44.9,70.4 45.0,70.3C45.0,70.2 45.0,70.1 45.0,69.9C45.1,69.8 45.1,69.7 45.1,69.5C45.1,69.4 45.1,69.3 45.1,69.2C45.2,69.0 45.2,68.9 45.2,68.8C45.3,68.6 45.3,68.5 45.3,68.4C45.3,68.3 45.4,68.1 45.4,68.0C45.5,67.9 45.5,67.8 45.6,67.7C45.6,67.5 45.6,67.4 45.7,67.3C45.7,67.2 45.8,67.1 45.8,66.9C45.9,66.8 45.9,66.7 46.0,66.6C46.0,66.5 46.1,66.4 46.1,66.2C46.2,66.1 46.2,66.0 46.3,65.9C46.4,65.8 46.4,65.7 46.5,65.6C46.6,65.5 46.6,65.4 46.7,65.3C46.8,65.1 46.9,65.0 46.9,64.9C47.0,64.8 47.1,64.7 47.1,64.6C47.2,64.5 47.3,64.4 47.4,64.3C47.5,64.2 47.6,64.1 47.7,64.0C47.8,63.9 47.9,63.8 48.0,63.8C48.1,63.7 48.2,63.7 48.3,63.7C48.5,63.7 48.6,63.7 48.7,63.7C48.9,63.7 49.0,63.7 49.1,63.7C49.3,63.8 49.4,63.7 49.5,63.8C49.7,63.8 49.8,63.8 50.0,63.8C50.1,63.8 50.2,63.8 50.4,63.8C50.5,63.8 50.6,63.8 50.8,63.8C50.9,63.8 51.1,63.8 51.2,63.8C51.3,63.8 51.5,63.8 51.6,63.8C51.7,63.8 51.9,63.8 52.0,63.8C52.2,63.8 52.3,63.8 52.4,63.8C52.6,63.7 52.7,63.8 52.9,63.7C53.0,63.7 53.1,63.7 53.3,63.7C53.4,63.7 53.5,63.7 53.6,63.7C53.7,63.7 53.9,63.8 53.9,63.8C54.0,63.9 54.0,64.0 54.0,64.2C54.0,64.3 54.0,64.4 54.0,64.6C54.0,64.7 54.0,64.8 54.0,65.0C54.0,65.1 54.0,65.3 54.0,65.4C54.0,65.5 54.0,65.7 54.0,65.8C54.0,66.0 54.0,66.1 54.0,66.2C54.0,66.4 54.0,66.5 54.0,66.6C54.0,66.8 54.0,66.9 54.0,67.0C53.9,67.2 53.9,67.3 53.9,67.4C53.9,67.6 53.9,67.7 53.9,67.8C53.8,67.9 53.8,68.1 53.8,68.2C53.8,68.3 53.8,68.5 53.7,68.6C53.7,68.7 53.7,68.9 53.7,69.0C53.7,69.1 53.6,69.2 53.6,69.4C53.6,69.5 53.5,69.6 53.5,69.7C53.5,69.9 53.5,70.0 53.4,70.1C53.4,70.2 53.4,70.4 53.3,70.5C53.3,70.6 53.3,70.7 53.2,70.9C53.2,71.0 53.2,71.1 53.1,71.2C53.1,71.4 53.1,71.5 53.0,71.6C53.0,71.7 52.9,71.8 52.9,72.0C52.8,72.1 52.8,72.2 52.8,72.3C52.7,72.4 52.7,72.6 52.6,72.7C52.6,72.8 52.5,72.9 52.5,73.0C52.4,73.1 52.4,73.3 52.3,73.4C52.2,73.5 52.2,73.6 52.1,73.7C52.1,73.8 52.0,73.9 52.0,74.1C51.9,74.2 51.8,74.3 51.8,74.4C51.7,74.5 51.6,74.6 51.5,74.7C51.5,74.8 51.4,74.9 51.3,75.0C51.2,75.1 51.2,75.2 51.1,75.3C51.0,75.4 50.9,75.6 50.8,75.7C50.8,75.8 50.7,75.9 50.6,76.0C50.5,76.1 50.4,76.2 50.3,76.3C50.2,76.4 50.1,76.5 50.0,76.6C49.9,76.7 49.8,76.8 49.7,76.9C49.6,76.9 49.5,77.0 49.4,77.1C49.3,77.2 49.2,77.3 49.1,77.4C49.0,77.5 48.9,77.5 48.8,77.6C48.7,77.7 48.6,77.8 48.5,77.8C48.4,77.9 48.2,78.0 48.1,78.0C48.0,78.1 47.9,78.1 47.8,78.2C47.7,78.2 47.6,78.3 47.4,78.3C47.3,78.4 47.2,78.4 47.1,78.5C47.0,78.5 46.8,78.6 46.7,78.6C46.6,78.6 46.5,78.7 46.4,78.7C46.2,78.7 46.1,78.8 46.0,78.8C45.8,78.8 45.7,78.8 45.6,78.9C45.5,78.9 45.3,78.9 45.2,78.9C45.1,78.9 44.9,78.9 44.8,79.0C44.7,79.0 44.5,79.0 44.4,79.0C44.3,79.0 44.1,79.0 44.0,78.9C43.8,78.9 43.7,78.9 43.6,78.9C43.5,78.9 43.3,78.9 43.2,78.8C43.1,78.8 42.9,78.8 42.8,78.8C42.7,78.7 42.6,78.7 42.4,78.7C42.3,78.6 42.2,78.6 42.1,78.6C42.0,78.5 41.8,78.5 41.7,78.4C41.6,78.4 41.5,78.4 41.3,78.3C41.2,78.3 41.1,78.2 41.0,78.2C40.9,78.1 40.8,78.1 40.6,78.0C40.5,78.0 40.4,77.9 40.3,77.9C40.2,77.8 40.1,77.7 40.0,77.7C39.9,77.6 39.7,77.5 39.6,77.5C39.5,77.4 39.4,77.3 39.3,77.2C39.2,77.1 39.1,77.0 39.0,76.9C38.9,76.9 38.8,76.8 38.7,76.7C38.6,76.6 38.6,76.5 38.5,76.4C38.4,76.3 38.3,76.2 38.2,76.1C38.1,76.0 38.0,75.9 38.0,75.8C37.9,75.7 37.8,75.6 37.7,75.5C37.7,75.4 37.6,75.3 37.5,75.2C37.5,75.1 37.4,74.9 37.4,74.8C37.3,74.7 37.2,74.6 37.2,74.5C37.1,74.4 37.1,74.3 37.0,74.1C37.0,74.0 36.9,73.9 36.9,73.8C36.9,73.7 36.8,73.5 36.8,73.4C36.8,73.3 36.8,73.1 36.7,73.0C36.7,72.9 36.7,72.8 36.7,72.6C36.7,72.5 36.6,72.4 36.6,72.2C36.6,72.1 36.6,72.0 36.5,71.9C36.5,71.7 36.5,71.6 36.5,71.5C36.5,71.3 36.5,71.2 36.5,71.0C36.5,70.9 36.5,70.8 36.5,70.6C36.6,70.5 36.6,70.4 36.6,70.2C36.6,70.1 36.6,70.0 36.6,69.9C36.7,69.7 36.7,69.6 36.7,69.5C36.7,69.3 36.7,69.2 36.8,69.1C36.8,69.0 36.8,68.8 36.9,68.7C36.9,68.6 36.9,68.5 37.0,68.3C37.0,68.2 37.1,68.1 37.1,68.0C37.1,67.9 37.2,67.7 37.2,67.6C37.3,67.5 37.3,67.4 37.4,67.3C37.4,67.1 37.5,67.0 37.5,66.9C37.6,66.8 37.7,66.7 37.7,66.6C37.8,66.5 37.8,66.3 37.9,66.2C37.9,66.1 38.0,66.0 38.1,65.9C38.1,65.8 38.2,65.7 38.2,65.6C38.3,65.4 38.4,65.3 38.5,65.2C38.5,65.1 38.6,65.0 38.7,64.9C38.8,64.8 38.8,64.7 38.9,64.6C39.0,64.5 39.1,64.4 39.2,64.3C39.3,64.2 39.4,64.1 39.5,64.0C39.5,63.9 39.6,63.8 39.7,63.7C39.8,63.6 39.9,63.5 40.0,63.4C40.1,63.3 40.2,63.2 40.3,63.1C40.4,63.0 40.5,62.9 40.6,62.9C40.7,62.8 40.9,62.7 41.0,62.7Z" />
     <Path fill={GOLD} stroke={INK} strokeWidth={2.85} strokeLinejoin="round" strokeLinecap="round" d="M33.81,26.16 L33.30,14.06 L42.86,21.56 L49.63,3.00 L58.92,19.77 L66.93,12.38 L67.39,23.81 Z" />
     <Path fill={BODY} d="M11.6,21.5C11.7,21.5 11.9,21.5 12.0,21.5C12.1,21.4 12.3,21.4 12.4,21.4C12.5,21.5 12.6,21.5 12.8,21.5C12.9,21.6 13.0,21.6 13.1,21.7C13.2,21.8 13.3,21.9 13.4,21.9C13.5,22.0 13.6,22.1 13.7,22.2C13.8,22.3 13.9,22.5 14.0,22.6C14.0,22.7 14.1,22.8 14.2,22.9C14.2,23.1 14.3,23.2 14.4,23.3C14.4,23.5 14.5,23.6 14.5,23.8C14.5,23.9 14.6,24.1 14.6,24.2C14.7,24.3 14.7,24.5 14.7,24.6C14.7,24.8 14.8,24.9 14.8,25.1C14.8,25.2 14.8,25.4 14.9,25.5C14.9,25.7 14.9,25.8 14.9,25.9C14.9,26.1 14.9,26.2 14.9,26.4C14.9,26.5 14.9,26.7 14.9,26.8C15.0,27.0 15.0,27.1 15.0,27.2C15.0,27.4 15.0,27.5 15.0,27.7C15.0,27.8 14.9,28.0 14.9,28.1C14.9,28.3 14.9,28.4 14.9,28.5C14.9,28.7 14.9,28.8 14.9,29.0C14.9,29.1 14.9,29.3 14.9,29.4C14.9,29.5 14.8,29.7 14.8,29.8C14.8,30.0 14.8,30.1 14.8,30.2C14.8,30.4 14.8,30.5 14.7,30.7C14.7,30.8 14.7,31.0 14.7,31.1C14.7,31.2 14.6,31.4 14.6,31.5C14.6,31.6 14.6,31.8 14.5,31.9C14.5,32.0 14.4,32.2 14.4,32.3C14.3,32.4 14.3,32.5 14.2,32.6C14.1,32.7 14.0,32.8 13.9,32.8C13.8,32.9 13.7,32.9 13.6,33.0C13.5,33.0 13.4,33.0 13.3,33.1C13.1,33.1 13.0,33.1 12.9,33.1C12.7,33.1 12.6,33.0 12.5,33.0C12.3,33.0 12.2,33.0 12.0,32.9C11.9,32.9 11.8,32.9 11.6,32.8C11.5,32.8 11.4,32.8 11.2,32.7C11.1,32.7 10.9,32.6 10.8,32.6C10.7,32.6 10.5,32.5 10.4,32.5C10.2,32.4 10.1,32.4 10.0,32.3C9.8,32.3 9.7,32.2 9.6,32.2C9.4,32.1 9.3,32.1 9.2,32.0C9.0,32.0 8.9,31.9 8.7,31.8C8.6,31.8 8.5,31.7 8.3,31.6C8.2,31.6 8.1,31.5 8.0,31.4C7.8,31.4 7.7,31.3 7.6,31.2C7.5,31.2 7.3,31.1 7.2,31.0C7.1,30.9 7.0,30.8 6.8,30.8C6.7,30.7 6.6,30.6 6.5,30.5C6.4,30.4 6.3,30.3 6.2,30.2C6.1,30.1 6.0,30.0 5.8,29.9C5.7,29.8 5.6,29.7 5.5,29.6C5.5,29.5 5.4,29.4 5.3,29.3C5.2,29.2 5.1,29.1 5.0,29.0C4.9,28.8 4.9,28.7 4.8,28.6C4.7,28.5 4.6,28.3 4.6,28.2C4.5,28.1 4.4,28.0 4.4,27.8C4.3,27.7 4.3,27.6 4.3,27.4C4.2,27.3 4.2,27.1 4.1,27.0C4.1,26.9 4.1,26.7 4.1,26.6C4.1,26.4 4.1,26.3 4.1,26.1C4.1,26.0 4.1,25.9 4.1,25.7C4.1,25.6 4.2,25.5 4.2,25.3C4.3,25.2 4.3,25.1 4.4,24.9C4.4,24.8 4.5,24.7 4.6,24.6C4.7,24.5 4.7,24.4 4.8,24.3C4.9,24.2 5.0,24.1 5.2,24.0C5.3,23.9 5.4,23.9 5.5,23.8C5.6,23.8 5.8,23.7 5.9,23.7C6.0,23.7 6.2,23.6 6.3,23.6C6.4,23.6 6.6,23.6 6.7,23.6C6.9,23.6 7.0,23.7 7.1,23.7C7.3,23.7 7.4,23.8 7.5,23.8C7.7,23.8 7.8,23.9 7.9,23.9C8.1,24.0 8.2,24.1 8.3,24.1C8.4,24.2 8.6,24.2 8.7,24.2C8.8,24.3 8.9,24.3 9.0,24.3C9.1,24.3 9.2,24.3 9.2,24.3C9.3,24.3 9.4,24.3 9.5,24.2C9.5,24.1 9.6,24.1 9.7,24.0C9.7,23.9 9.8,23.8 9.8,23.7C9.9,23.5 9.9,23.4 10.0,23.3C10.0,23.2 10.1,23.1 10.2,22.9C10.2,22.8 10.3,22.7 10.4,22.6C10.5,22.5 10.6,22.3 10.6,22.2C10.7,22.1 10.8,22.0 10.9,21.9C11.0,21.9 11.1,21.8 11.3,21.7C11.4,21.6 11.5,21.6 11.6,21.5Z" />
